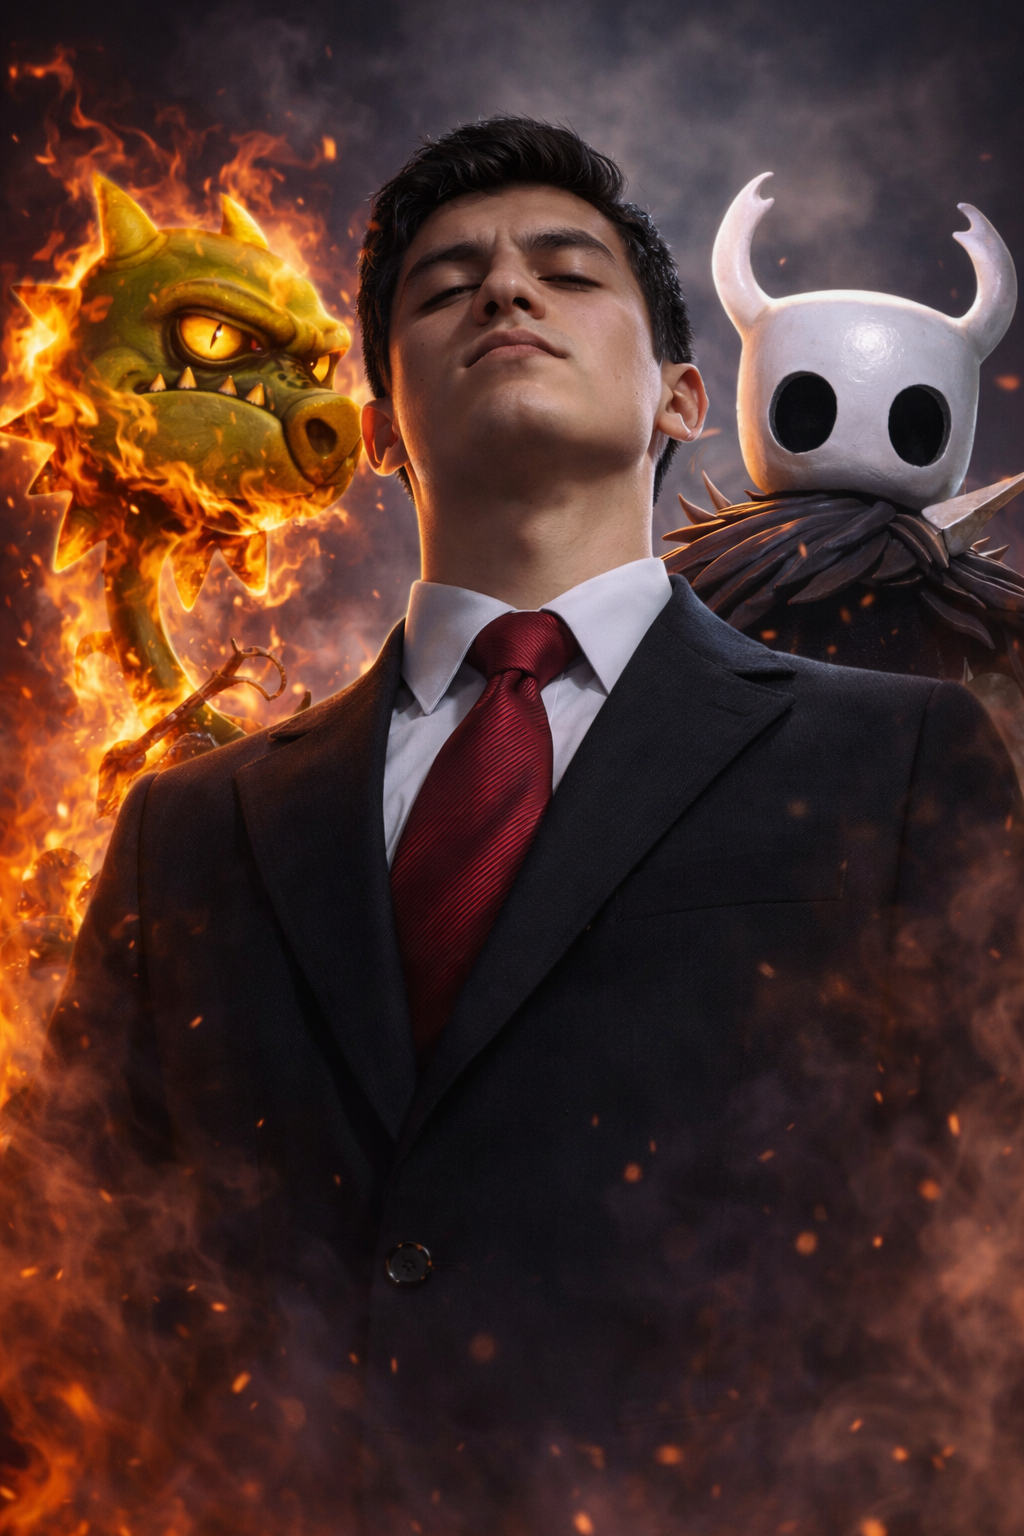
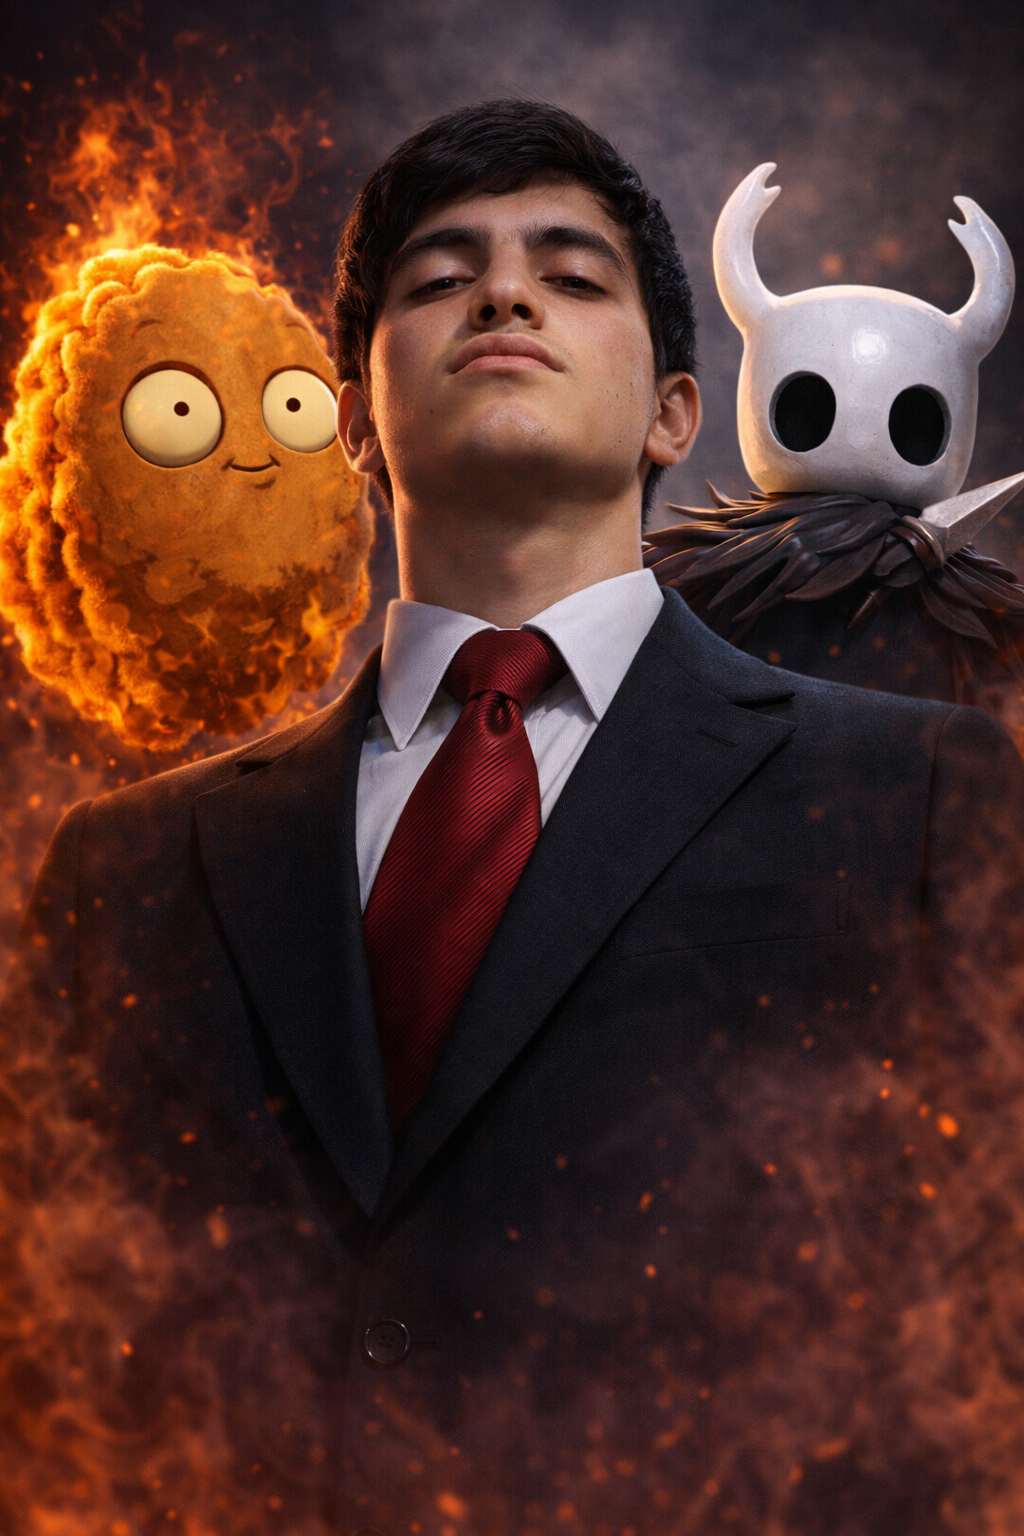
Cambios en stadisticas y de foto de portada para el pack 6

diff --git a/src/components/modules/SnakeGame.tsx b/src/components/modules/SnakeGame.tsx
@@ -2,25 +2,29 @@
 
 import { useCallback, useEffect, useRef, useState } from "react";
 
+type GameState = 'waiting' | 'playing' | 'over';
+
 export default function SnakeGame() {
   const canvasRef = useRef<HTMLCanvasElement>(null);
-  const [gameOver, setGameOver] = useState(false);
+  const [gameState, setGameState] = useState<GameState>('waiting');
   const [score, setScore] = useState(0);
   const [direction, setDirection] = useState({ x: 1, y: 0 });
   const [snake, setSnake] = useState([{ x: 10, y: 10 }]);
   const [food, setFood] = useState({ x: 15, y: 15 });
   const gameSpeed = useRef(120);
-  const gameRunning = useRef(true);
+  const gameRunning = useRef(false);
 
   const moveSnake = useCallback(() => {
     if (!gameRunning.current) return;
+
     const head = { ...snake[0] };
     head.x += direction.x;
     head.y += direction.y;
 
     if (head.x < 0 || head.x >= 25 || head.y < 0 || head.y >= 25 || 
         snake.some(s => s.x === head.x && s.y === head.y)) {
-      setGameOver(true);
+      gameRunning.current = false;
+      setGameState('over');
       return;
     }
 
@@ -36,12 +40,19 @@ export default function SnakeGame() {
   }, [snake, direction, food]);
 
   useEffect(() => {
+    if (gameState !== 'playing') return;
+    const id = setInterval(moveSnake, gameSpeed.current);
+    return () => clearInterval(id);
+  }, [moveSnake, gameState]);
+
+  useEffect(() => {
     const handleKey = (e: KeyboardEvent) => {
+      if (gameState !== 'playing') return;
       const dirs: Record<string, {x: number, y: number}> = {
-        'ArrowUp': {x:0,y:-1}, 'w': {x:0,y:-1},
-        'ArrowDown': {x:0,y:1}, 's': {x:0,y:1},
-        'ArrowLeft': {x:-1,y:0}, 'a': {x:-1,y:0},
-        'ArrowRight': {x:1,y:0}, 'd': {x:1,y:0}
+        'ArrowUp':    { x: 0,  y: -1 }, 'w': { x: 0,  y: -1 },
+        'ArrowDown':  { x: 0,  y:  1 }, 's': { x: 0,  y:  1 },
+        'ArrowLeft':  { x: -1, y:  0 }, 'a': { x: -1, y:  0 },
+        'ArrowRight': { x: 1,  y:  0 }, 'd': { x: 1,  y:  0 }
       };
       const newDir = dirs[e.key.toLowerCase()];
       if (newDir && (newDir.x * -1 !== direction.x || newDir.y * -1 !== direction.y)) {
@@ -50,135 +61,133 @@ export default function SnakeGame() {
     };
     window.addEventListener('keydown', handleKey);
     return () => window.removeEventListener('keydown', handleKey);
-  }, [direction]);
-
-  useEffect(() => {
-    const id = setInterval(moveSnake, gameSpeed.current);
-    return () => clearInterval(id);
-  }, [moveSnake, gameSpeed.current]);
+  }, [direction, gameState]);
 
   useEffect(() => {
     const canvas = canvasRef.current;
-    if (!canvas || !canvas.getContext) return;
+    if (!canvas) return;
     const ctx = canvas.getContext('2d')!;
     ctx.clearRect(0, 0, 500, 500);
 
-    // Fondo césped
-    const gradient = ctx.createLinearGradient(0, 0, 0, 500);
-    gradient.addColorStop(0, '#4caf50');
-    gradient.addColorStop(1, '#2e7d32');
-    ctx.fillStyle = gradient;
+    const bgGradient = ctx.createLinearGradient(0, 0, 0, 500);
+    bgGradient.addColorStop(0, '#4caf50');
+    bgGradient.addColorStop(1, '#2e7d32');
+    ctx.fillStyle = bgGradient;
     ctx.fillRect(0, 0, 500, 500);
 
-    // Líneas jardín (SOLO área de juego)
     ctx.strokeStyle = 'rgba(255,255,255,0.1)';
     ctx.lineWidth = 2;
     for (let i = 0; i < 25; i++) {
-      ctx.beginPath();
-      ctx.moveTo(i * 20, 0);
-      ctx.lineTo(i * 20, 500);
-      ctx.stroke();
-      ctx.beginPath();
-      ctx.moveTo(0, i * 20);
-      ctx.lineTo(500, i * 20);
-      ctx.stroke();
+      ctx.beginPath(); ctx.moveTo(i * 20, 0);   ctx.lineTo(i * 20, 500); ctx.stroke();
+      ctx.beginPath(); ctx.moveTo(0, i * 20);   ctx.lineTo(500, i * 20); ctx.stroke();
     }
 
-    // Serpiente 3D
     snake.forEach((s, i) => {
-      const gradient = ctx.createRadialGradient(s.x*20+10, s.y*20+10, 0, s.x*20+10, s.y*20+10, 18);
-      gradient.addColorStop(0, i === 0 ? '#81c784' : '#66bb6a');
-      gradient.addColorStop(1, i === 0 ? '#4caf50' : '#43a047');
-      ctx.fillStyle = gradient;
+      const g = ctx.createRadialGradient(s.x*20+10, s.y*20+10, 0, s.x*20+10, s.y*20+10, 18);
+      g.addColorStop(0, i === 0 ? '#81c784' : '#66bb6a');
+      g.addColorStop(1, i === 0 ? '#4caf50' : '#43a047');
+      ctx.fillStyle = g;
       ctx.shadowColor = '#000';
       ctx.shadowBlur = 8;
       ctx.fillRect(s.x*20+2, s.y*20+2, 16, 16);
       ctx.shadowBlur = 0;
     });
 
-    // Ojos cabeza
-    if (snake.length > 0) {
-      const head = snake[0];
-      ctx.fillStyle = 'white';
-      ctx.beginPath();
-      ctx.arc(head.x*20+7, head.y*20+7, 3, 0, Math.PI*2);
-      ctx.fill();
-      ctx.beginPath();
-      ctx.arc(head.x*20+13, head.y*20+7, 3, 0, Math.PI*2);
-      ctx.fill();
-      ctx.fillStyle = 'black';
-      ctx.beginPath();
-      ctx.arc(head.x*20+7, head.y*20+7, 1.5, 0, Math.PI*2);
-      ctx.fill();
-      ctx.beginPath();
-      ctx.arc(head.x*20+13, head.y*20+7, 1.5, 0, Math.PI*2);
-      ctx.fill();
-    }
+    const head = snake[0];
+    ctx.fillStyle = 'white';
+    ctx.beginPath(); ctx.arc(head.x*20+7,  head.y*20+7, 3, 0, Math.PI*2); ctx.fill();
+    ctx.beginPath(); ctx.arc(head.x*20+13, head.y*20+7, 3, 0, Math.PI*2); ctx.fill();
+    ctx.fillStyle = 'black';
+    ctx.beginPath(); ctx.arc(head.x*20+7,  head.y*20+7, 1.5, 0, Math.PI*2); ctx.fill();
+    ctx.beginPath(); ctx.arc(head.x*20+13, head.y*20+7, 1.5, 0, Math.PI*2); ctx.fill();
 
-    // Fruto rojo brillante
     ctx.shadowColor = '#ff0000';
     ctx.shadowBlur = 15;
-    const fruitGradient = ctx.createRadialGradient(food.x*20+10, food.y*20+10, 0, food.x*20+10, food.y*20+10, 12);
-    fruitGradient.addColorStop(0, '#ff5722');
-    fruitGradient.addColorStop(0.7, '#f44336');
-    fruitGradient.addColorStop(1, '#d32f2f');
-    ctx.fillStyle = fruitGradient;
+    const fg = ctx.createRadialGradient(food.x*20+10, food.y*20+10, 0, food.x*20+10, food.y*20+10, 12);
+    fg.addColorStop(0, '#ff5722');
+    fg.addColorStop(0.7, '#f44336');
+    fg.addColorStop(1, '#d32f2f');
+    ctx.fillStyle = fg;
     ctx.beginPath();
     ctx.arc(food.x*20+10, food.y*20+10, 12, 0, Math.PI*2);
     ctx.fill();
     ctx.shadowBlur = 0;
 
-    if (gameOver) {
+    if (gameState === 'waiting') {
+      ctx.fillStyle = 'rgba(0,0,0,0.75)';
+      ctx.fillRect(0, 0, 500, 500);
+      ctx.textAlign = 'center';
+      ctx.fillStyle = '#76ff03';
+      ctx.font = 'bold 48px "Comic Sans MS", cursive';
+      ctx.shadowColor = '#000';
+      ctx.shadowBlur = 8;
+      ctx.fillText('🐍 SNAKE', 250, 190);
+      ctx.font = 'bold 22px Arial';
+      ctx.fillStyle = 'white';
+      ctx.fillText('Click para empezar', 250, 250);
+      ctx.shadowBlur = 0;
+    }
+
+    if (gameState === 'over') {
       ctx.fillStyle = 'rgba(0,0,0,0.9)';
       ctx.fillRect(0, 0, 500, 500);
-      ctx.fillStyle = '#ffeb3b'; // Amarillo meme
-      ctx.font = 'bold 32px "Comic Sans MS", cursive';
       ctx.textAlign = 'center';
       ctx.shadowColor = '#000';
       ctx.shadowBlur = 5;
-      ctx.fillText('Te falta calle pa', 250, 180);
+      ctx.fillStyle = '#ffeb3b';
+      ctx.font = 'bold 36px "Comic Sans MS", cursive';
+      ctx.fillText('☠ Te falta calle pa', 250, 175);
       ctx.font = 'bold 28px "Comic Sans MS", cursive';
       ctx.fillStyle = '#4caf50';
       ctx.fillText(`🐍 ${score} PUNTOS`, 250, 230);
-      ctx.fillStyle = '#ffeb3b';
       ctx.font = 'bold 20px Arial';
-      ctx.fillText('←↑↓→ o WASD para revancha', 250, 280);
+      ctx.fillStyle = '#ffeb3b';
+      ctx.fillText('Click para volver a intentar', 250, 285);
       ctx.shadowBlur = 0;
     }
   });
 
-  const restart = () => {
-    setSnake([{ x: 10, y: 10 }]);
-    setFood({ x: 15, y: 15 });
-    setScore(0);
-    setGameOver(false);
-    setDirection({ x: 1, y: 0 });
-    gameSpeed.current = 120;
+  const handleStart = () => {
+    if (gameState === 'waiting') {
+      gameRunning.current = true;
+      setGameState('playing');
+    }
+    if (gameState === 'over') {
+      setSnake([{ x: 10, y: 10 }]);
+      setFood({ x: 15, y: 15 });
+      setScore(0);
+      setDirection({ x: 1, y: 0 });
+      gameSpeed.current = 120;
+      gameRunning.current = true;
+      setGameState('playing');
+    }
   };
 
   const speedDisplay = Math.round(1000 / gameSpeed.current);
 
   return (
     <div className="flex flex-col items-center justify-center h-full p-8 bg-gradient-to-b from-emerald-600 to-green-600 rounded-3xl relative overflow-hidden">
-      {/* Score FUERA del canvas */}
       <div className="w-[500px] flex justify-between items-center mb-6 p-4 bg-black/30 backdrop-blur-sm border-4 border-white/50 rounded-2xl text-white font-black text-2xl shadow-2xl">
         <div>🍎 <span className="text-3xl">{score}</span></div>
+        <div className="text-base font-bold uppercase text-white/70">
+          { gameState === 'waiting' ? '¡Haz click para jugar!' : gameState === 'over' ? '¡Inténtalo de nuevo!' : '¡Snake!' }
+        </div>
         <div>🚀 <span className="text-3xl">{speedDisplay}</span></div>
       </div>
-      
+
       <div className="relative">
-        <canvas 
-          ref={canvasRef} 
-          width={500} 
-          height={500} 
-          className="border-12 border-black shadow-[20px_20px_0px_0px_rgba(0,0,0,0.8)] bg-gradient-to-b from-green-400 to-green-600 hover:shadow-[25px_25px_0px_0px_rgba(0,0,0,0.8)] transition-all cursor-pointer" 
-          onClick={gameOver ? restart : undefined}
+        <canvas
+          ref={canvasRef}
+          width={500}
+          height={500}
+          className="border-12 border-black shadow-[20px_20px_0px_0px_rgba(0,0,0,0.8)] cursor-pointer hover:shadow-[25px_25px_0px_0px_rgba(0,0,0,0.8)] transition-all"
+          onClick={handleStart}
         />
         <div className="mt-8 text-white font-black text-3xl text-center drop-shadow-lg tracking-wider">
           🐍 ¡COME FRUTOS ROJOS!
         </div>
         <div className="mt-2 text-white/90 font-bold text-xl text-center drop-shadow-md">
-          ←↑↓→ o WASD | ¡Más rápido al comer!
+          WASD | ¡Más rápido al comer!
         </div>
       </div>
     </div>

diff --git a/src/lib/team-data.ts b/src/lib/team-data.ts
@@ -99,7 +99,7 @@ export const teamMembers: Member[] = [
   },
   {
     id: 'juan-arcos',
-    name: 'SCRIPT-KID',
+    name: 'ArquiNuez Cloud',
     role: 'Arquitecto de Nube',
     description: 'Su único vicio es la programación y las Arquinenas. Todo lo dicho y hecho aquí no representa lo que soy (más o menos).',
     packImage: '/members/juan-prime.jpeg',
@@ -109,8 +109,8 @@ export const teamMembers: Member[] = [
     cost: 175,
     stats: [
       { label: 'Espanta Viejas', value: 100 },
-      { label: 'Homofobia', value: 50 },
-      { label: 'Inimputable', value: 0 }
+      { label: 'Autista(fan de autos)', value: 50 },
+      { label: 'Jugador de LoL', value: 100 }
     ]
   }
 ];

diff --git a/public/unboxing.html b/public/unboxing.html
@@ -446,7 +446,7 @@
             },
             {
                 id: 'juan-arcos',
-                name: 'SCRIPT-KID',
+                name: 'ArquiNuez Cloud',
                 role: 'Arquitecto de Nube',
                 packImage: '/members/juan-prime.jpeg',
                 cardImage: '/members/juan.jpeg',
